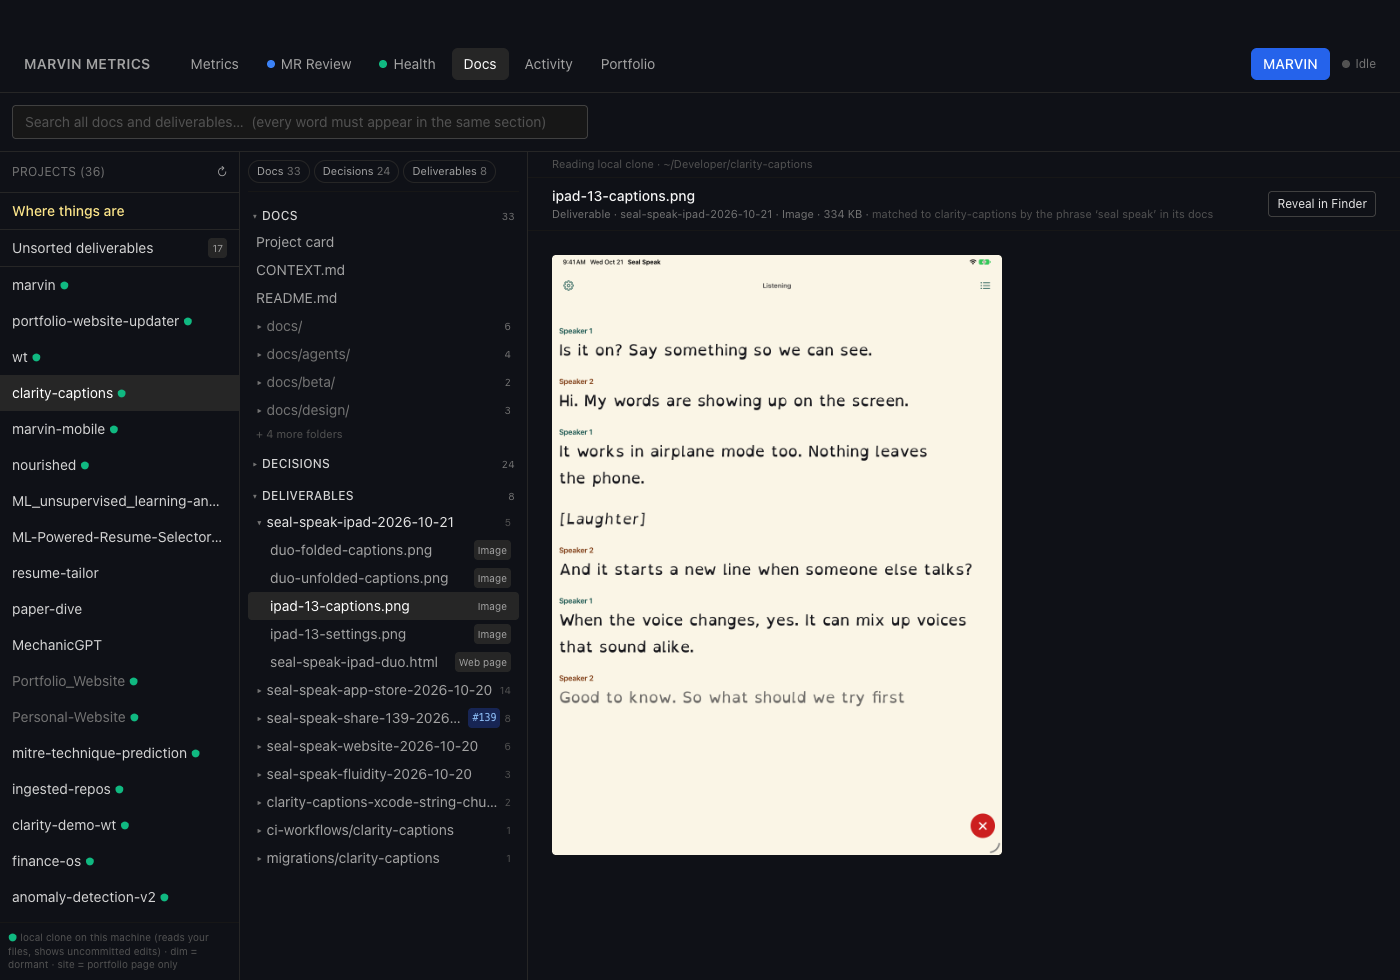
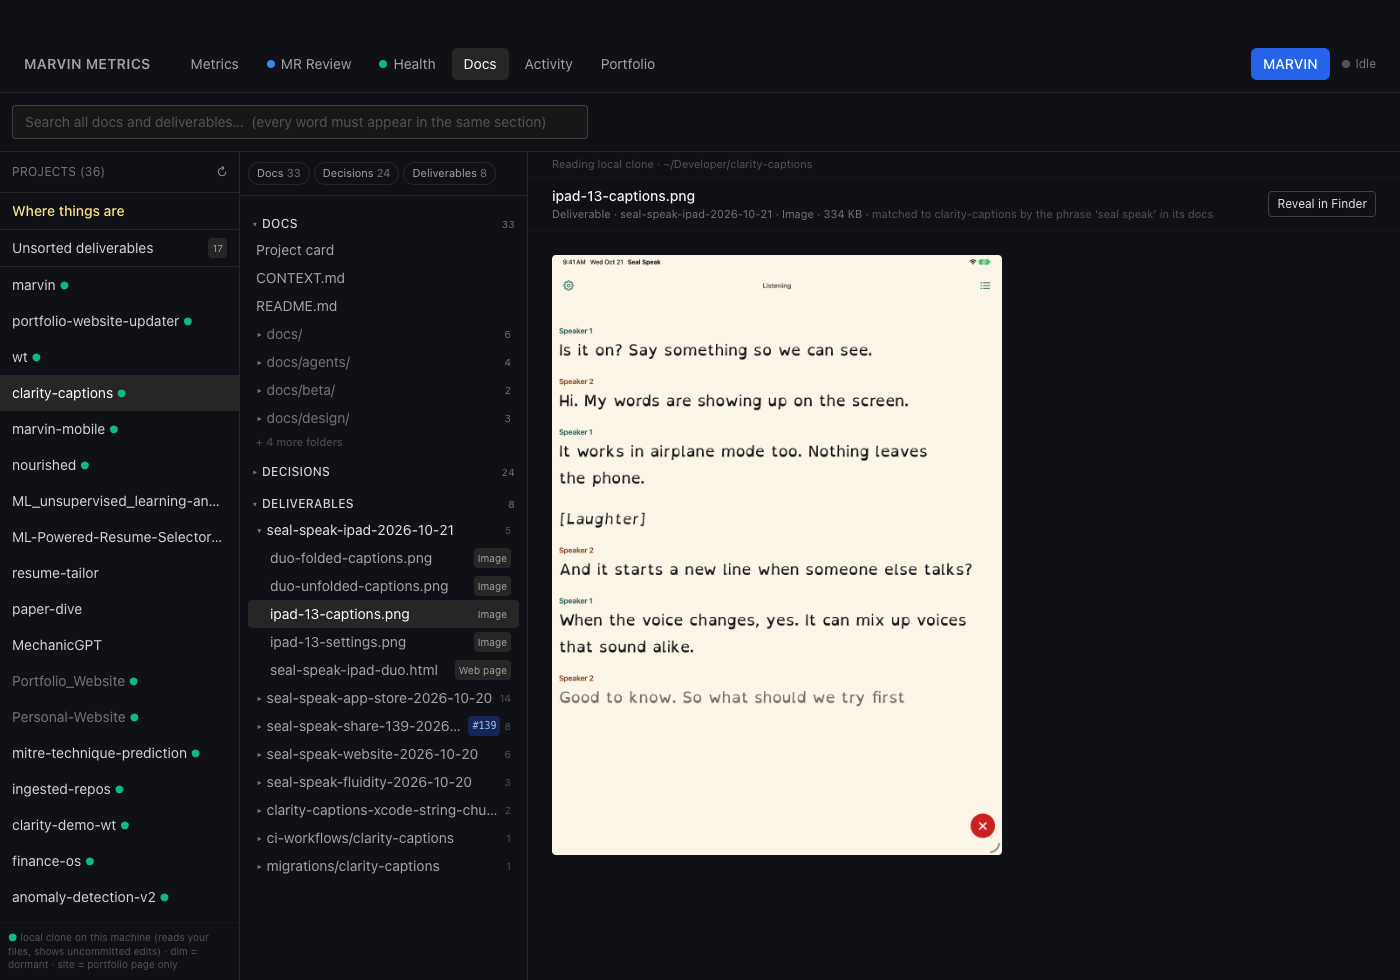
docs: one chip row, no page tabs in the chosen Docs layout (#403)
Gil settled the last layout question: one control per level. Project
(sidebar), then Kind (one chip row under the search box that filters
the tree and search results), then Folder or file (tree), then Content
(main pane). The project page loses its tabs and shows an overview with a
summary per group, or the folder-card grid. Section 0 of the design doc
writes the drill-down map out and lists the new visual elements.

Claude-Session: https://claude.ai/code/session_01B5mqmpgsfXTXg8JohakC1C

diff --git a/docs/plans/docs-files-merge.md b/docs/plans/docs-files-merge.md
@@ -12,49 +12,69 @@ before a build ticket is cut.
 
 ## 0. Chosen layout (Gil, 2026-10-21)
 
-Gil picked this layout after the A/B/C and hybrid rounds. Mock-ups: `docs/screenshots/ticket-403-f-*.png`, shown
-first on the phone page.
+Gil settled the layout after the A/B/C and hybrid rounds and one more pass. In that pass he dropped the page tabs and
+the second chip row: "I was just having a hard time understanding the relationship and logical drill down map."
+Mock-ups: `docs/screenshots/ticket-403-f-*.png`, shown first on the phone page.
 
-- **Tree (second column):** three collapsible groups: **Docs**, **Decisions** (the project's `docs/adr/`) and
-  **Deliverables** (its outbox items). Deliverable folders expand to subfolders and files.
-- **Chips over the tree:** Docs / Decisions / Deliverables, each with a count. With no chip active, every group shows.
-  Active chips filter the tree to the matching groups. Mocked states:
-  - none active (`f-1`)
-  - Deliverables only (`f-2`)
-  - Docs + Decisions (`f-3`)
-- **Tabs on the project's own page (main pane):** Docs / Decisions / Deliverables.
-  - The Docs tab shows the project card and a list of its docs (path and first heading).
-  - The Deliverables tab shows the folder-card grid.
-  - The Decisions tab lists the ADRs (not mocked).
-- **Files and folders:**
-  - Selecting a file opens it in the main pane through #402's `FileView` / `ImageViewer`, exactly as a doc opens
-    (`f-1`).
-  - Selecting a deliverable folder shows its contents as a card grid (`h-2`).
-- **Search:** chips (All, Docs, Decisions, Deliverables) above results grouped Docs / Decisions / Deliverables (`f-4`).
-- **Staleness, for a project with no clone on this Mac** (`f-5a`, `f-5b`, paper-dive):
-  - The saved copy renders instantly. The source line adds "from GitHub, 2 h ago · checking…".
-  - One conditional request goes to GitHub (`If-None-Match` with the saved ETag). A `304 Not Modified` doesn't count
-    against GitHub's rate limit, so the check is free.
-  - The line then settles to "from GitHub · up to date". If something changed, the new tree or text replaces the
-    old one in place: no reload, no spinner, and the scroll position is kept.
-  - The check runs once per open, never on a timer.
-  - This follows the memory rule that the dashboard loads from saved state. `docs.js` would need to save each
-    response's ETag next to the cached copy, a small extension of the GitHub reads it already makes.
-- Board counts in the mock-ups are illustrative. Everything else is real.
+### The drill-down map: one control per level
+
+| Level | Control | Where | What it does |
+|---|---|---|---|
+| 1. Project | The project list | Sidebar (first column) | Picks the project, *Where things are*, or *Unsorted deliverables*. |
+| 2. Kind | **One chip row**: Docs / Decisions / Deliverables, multi-select | Under the search box, over the tree column, level with the sidebar's "Projects" header | Filters the levels below it. No chip active = everything shows. |
+| 3. Folder or file | The tree | Second column | Three collapsible groups (Docs, Decisions = `docs/adr/`, Deliverables = outbox items). Only the groups the chips allow show. |
+| 4. Content | The main pane | Third column | Shows what level 3 selected. |
+
+No other control chooses a kind, so each level has exactly one control. Searching doesn't add a level: the same chips,
+in the same place, filter the results.
+
+### What the main pane shows
+
+- **Project selected (Project card, or nothing below it):** the overview.
+  - The project card, and the board line under the source line.
+  - One summary card per group the chips allow:
+    - Docs: the first few docs, as path and first heading.
+    - Decisions: the latest three ADRs.
+    - Deliverables: the newest folders with a cover image.
+  - Each summary has "Show all N →", which sets that chip. (`f-3`, `f-5a`)
+- **Only the Deliverables chip active, or a deliverable folder selected:** the folder-card grid.
+  - For the whole project, it shows one card per folder. (`f-2`)
+  - For one folder, it shows one card per file or subfolder. (`h-2`)
+- **A file selected:** the file opens in the main pane through #402's `FileView` / `ImageViewer`, exactly as a doc
+  opens. (`f-1`)
+- **A search typed:** results grouped Docs / Decisions / Deliverables. Only the groups the chips allow show, and the
+  count line says what's hidden ("2 Docs and 1 Decision hidden"). Clearing the search returns to browsing with the
+  same chips. (`f-4`)
+
+### Staleness, for a project with no clone on this Mac (`f-5a`, `f-5b`, paper-dive)
+
+- The saved copy renders instantly. The source line adds "from GitHub, 2 h ago · checking…".
+- One conditional request goes to GitHub (`If-None-Match` with the saved ETag). A `304 Not Modified` doesn't count
+  against GitHub's rate limit, so the check is free.
+- The line then settles to "from GitHub · up to date". If something changed, the new tree or text replaces the old one
+  in place: no reload, no spinner, and the scroll position is kept.
+- The check runs once per open, never on a timer.
+- This follows the memory rule that the dashboard loads from saved state. `docs.js` would need to save each response's
+  ETag next to the cached copy.
+
+Board counts in the mock-ups are illustrative. Everything else is real.
 
 ### New visual elements in the chosen layout
 
-- The chip row at the top of the tree column. It reuses the search-chip classes, smaller (`text-[11px]`, `px-2`) so
-  all three fit on one line in `w-72`.
-- The three group headers in the tree (`▾ DOCS 33`, `▾ DECISIONS 24`, `▾ DELIVERABLES 8`), collapsible. B's
-  collapsible doc sections and the `w-72` column carry over.
-- The page tab strip with counts (C's), placed under the board line on the project page.
-- The Docs tab's doc list: bordered rows with a monospace path and the doc's first heading.
-- The Deliverables tab's folder-card grid (C's), and the folder header and item-card grid when a folder is selected
-  (hybrid).
-- The staleness part of the source line: a pulsing blue dot with "from GitHub, 2 h ago · checking…", then a green
+- **The chip row** (level 2), at the top of the tree column. It is the same height as the sidebar's "Projects"
+  header, so the two read as the row of level headers. Classes come from the search chips, smaller (`text-[11px]`,
+  `px-2`) so the three chips fit in `w-72`. There is no chip row over the search results and no tab strip on the
+  project page.
+- **The three tree group headers** (`▾ DOCS 33`, `▾ DECISIONS 24`, `▾ DELIVERABLES 8`), collapsible. B's collapsible
+  doc sections and the `w-72` column carry over.
+- **The overview's summary cards:** the search-result card style with an uppercase title, a count and
+  "Show all N →". Docs and Decisions rows are a monospace path and the first heading. Deliverables shows cover
+  thumbnails.
+- **The folder-card grid** (C's), and the folder header with an item-card grid for a selected folder (hybrid).
+- **The search count line's hidden-groups note.**
+- **The staleness part of the source line:** a pulsing blue dot with "from GitHub, 2 h ago · checking…", then a green
   dot with "from GitHub · up to date". The dot and pulse reuse `DispatchStatusBadge`'s classes.
-- Kept from the earlier rounds: the Unsorted entry and its count, the "matched by …" line, the `#n` ticket chip,
+- **Kept from the earlier rounds:** the Unsorted entry and its count, the "matched by …" line, the `#n` ticket chip,
   #402's kind badges, and *Reveal in Finder*.
 
 ## 1. What Gil sees
